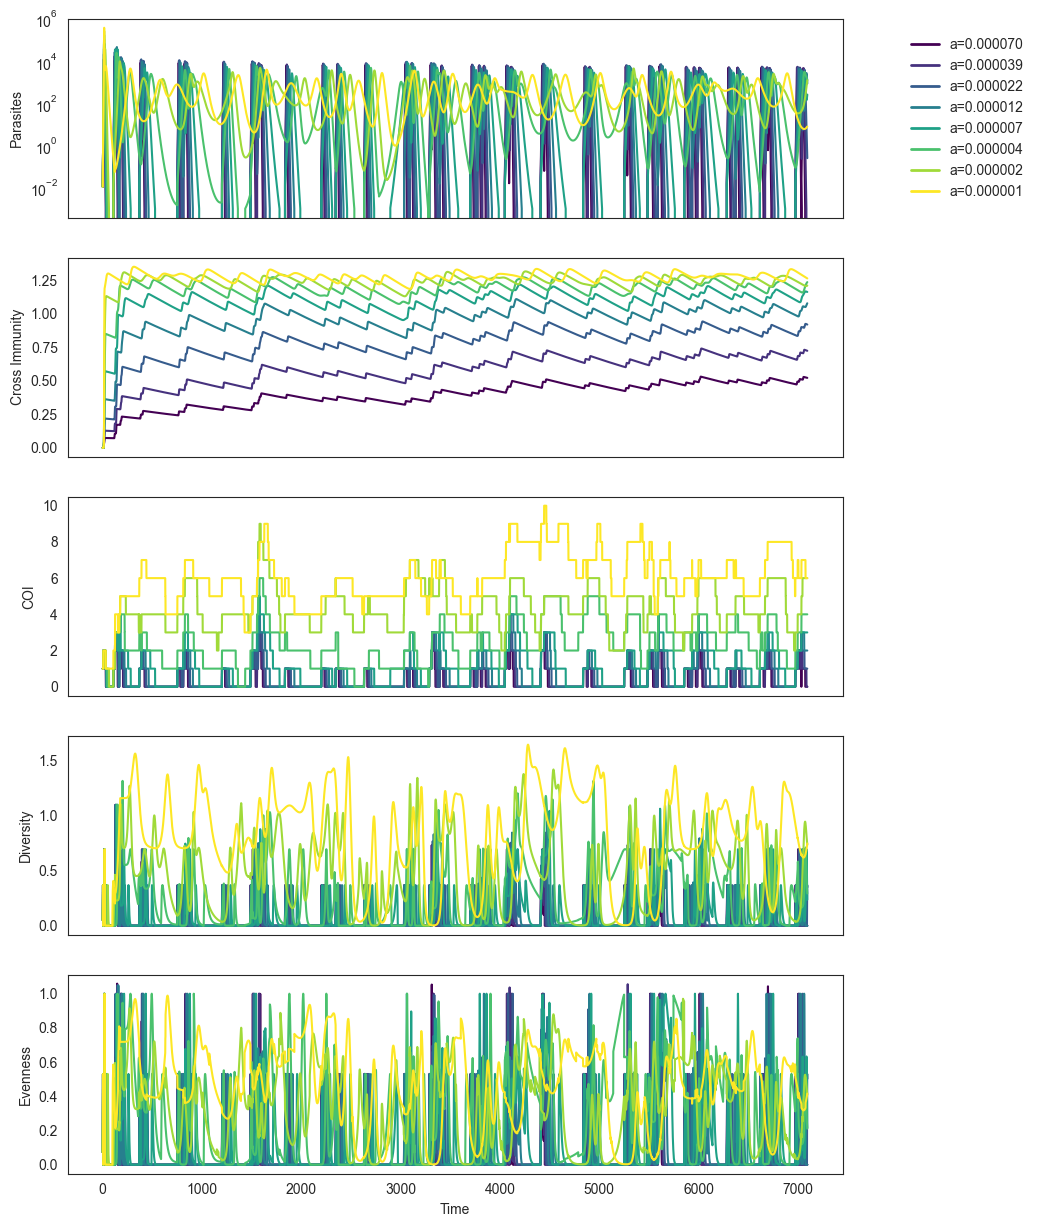
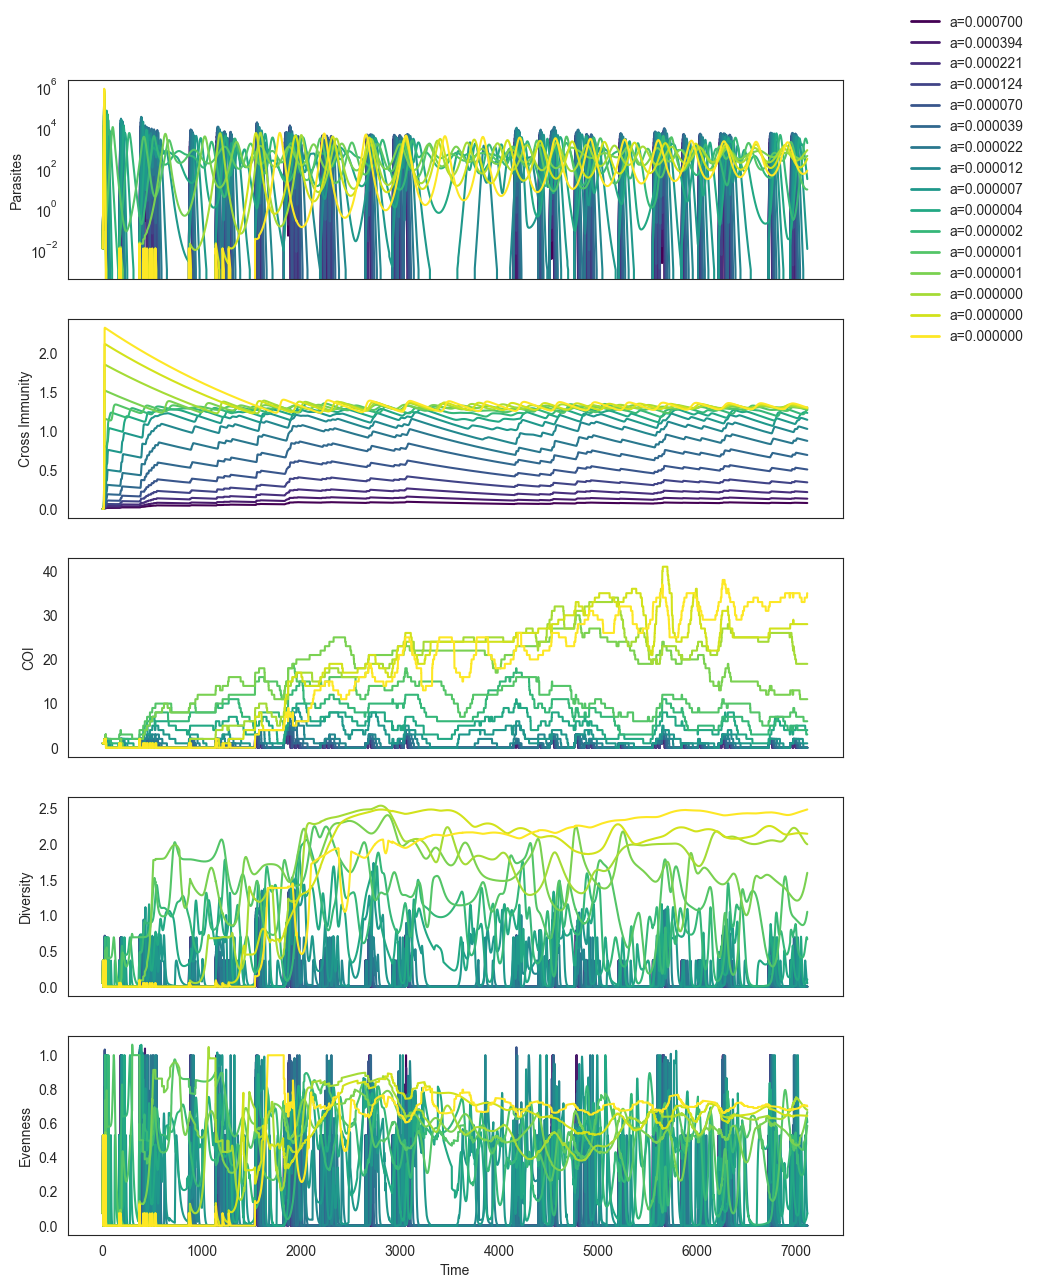
mean infection simulation changes

diff --git a/ode-solver-simulation/src/simulation.py b/ode-solver-simulation/src/simulation.py
@@ -1,6 +1,6 @@
 import numpy as np
 import pandas as pd
-from utils import sweep_parameters, runs, params
+from utils import sweep_parameters, runs, params,sweep_mean_infections
 from scipy.stats import ttest_ind
 import matplotlib.pyplot as plt
 import plots
@@ -10,28 +10,34 @@ p= params()
 #Hypothesis: this should not effect on persistency  
      
 # First simulation: r is a value in a uniform distribution between 0.5 to 1
-r_values_uniform = np.log(np.sort(np.random.uniform(1, 14, 10)))/2
-s1= sweep_parameters(p,'r',r_values_uniform)
+#r_values_uniform = np.log(np.sort(np.random.uniform(1, 14, 10)))/2
+#s1= sweep_parameters(p,'r',r_values_uniform)
     
 # Second simulation: r is a randomly picked value in the same uniform distribution for each n_strain
 
-s2= runs('r',p,10)
+
+#s2= runs('r',p,10)
 
 #Third simulation: alpha is a value between 7e- 5to 7e-7 
-exponents = np.arange(5, 7, 0.25)
-alpha_values = 7 * 10**(-exponents)
-s3= sweep_parameters(p,'a',alpha_values)
+#exponents = np.arange(4, 8, 0.25)
+#alpha_values = 7 * 10**(-exponents)
+#s3= sweep_parameters(p,'a',alpha_values)
 
 
-#Fourth simulation: alpha is randomly picked value from a uniform distribution for each n_strain
+#Fourth simulation: alpha is randomly picked value from a normal distribution for each n_strain
 
 s4= runs('a',p,10)
 
 
+#Changing mean infection times 
+
+mean_infections=np.round(np.linspace(1,10,10))
+s5=sweep_mean_infections(mean_infections)
 
 # Plot the simulations
-plots.plot_simulations(s1, p, 'r', r_values_uniform, f_name='simulation_plot_s1.png')
-plots.plot_simulations(s2, p, 'r', [s2[i][0] for i in range(len(s2))], f_name='simulation_plot_s2.png')
-plots.plot_simulations(s3, p, 'a', alpha_values, f_name='simulation_plot_s3.png')
+#plots.plot_simulations(s1, p, 'r', r_values_uniform, f_name='simulation_plot_s1.png')
+#plots.plot_simulations(s2, p, 'r', [s2[i][0] for i in range(len(s2))], f_name='simulation_plot_s2.png')
+#plots.plot_simulations(s3, p, 'a', alpha_values, f_name='simulation_plot_s3.png')
 plots.plot_simulations(s4, p, 'a', [s4[i][0] for i in range(len(s4))], f_name='simulation_plot_s4.png')
+plots.plot_simulations(s5, p, 'mean infections', mean_infections, f_name='simulation_plot_s5.png')
 #Analysis 

diff --git a/ode-solver-simulation/src/utils.py b/ode-solver-simulation/src/utils.py
@@ -28,13 +28,12 @@ def params(mean_infections_per_season=3, t_dry=181, years=20, year_duration=365)
     
     return params
 
-def sweep_mean_infections(params, mean_infections_list):
+def sweep_mean_infections( mean_infections_list):
     results = []
-    for mean_infections in mean_infections_list:
-        params = params.copy()
-        params['mean_infections_per_season'] = mean_infections
-        sol = solveModel(params)  
-        results.append((mean_infections, sol))
+    for i in mean_infections_list:
+        p = params(mean_infections_per_season=i)
+        sol = solveModel(p)  
+        results.append((i, sol))
     return results
 
 def sweep_parameters(params, parameter, values):
@@ -56,11 +55,11 @@ def runs(param,params,times):
             results.append((i, sol))
         return results
     elif param=='a':
-        exponents = np.arange(5, 7, 0.1)
+        exponents = np.arange(4, 8, 0.25)
         alpha_values = 7 * 10**(-exponents)
         for i in range(times):
             p = params.copy()
-            p['a'] = np.random.choice(alpha_values, p['n_strains'])
+            p['a'] = np.random.normal(alpha_values.mean(), alpha_values.std(), p['n_strains'])
             sol = solveModel(p)
             results.append((i, sol))
         return results
